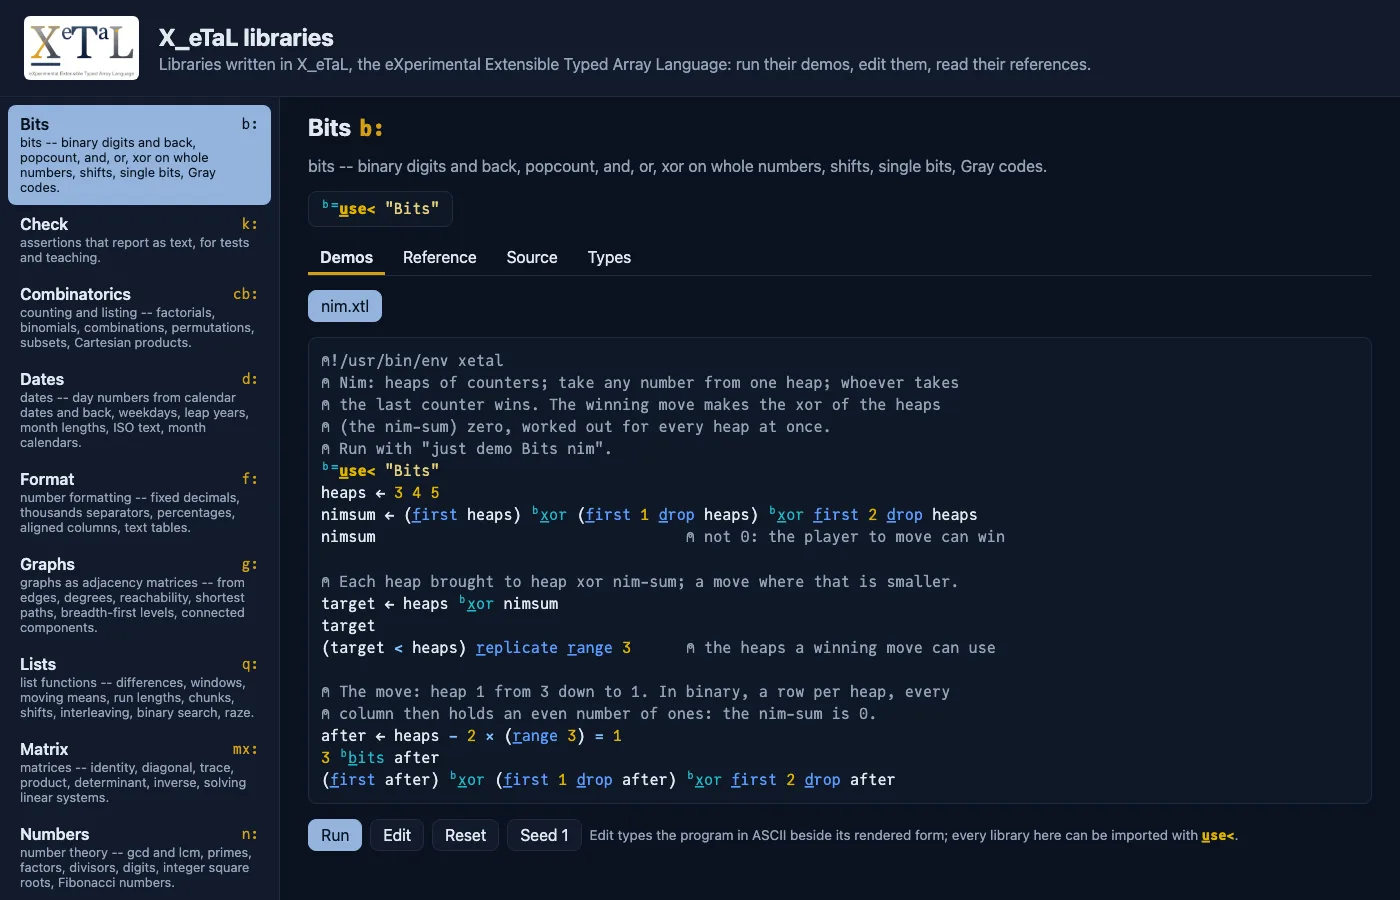
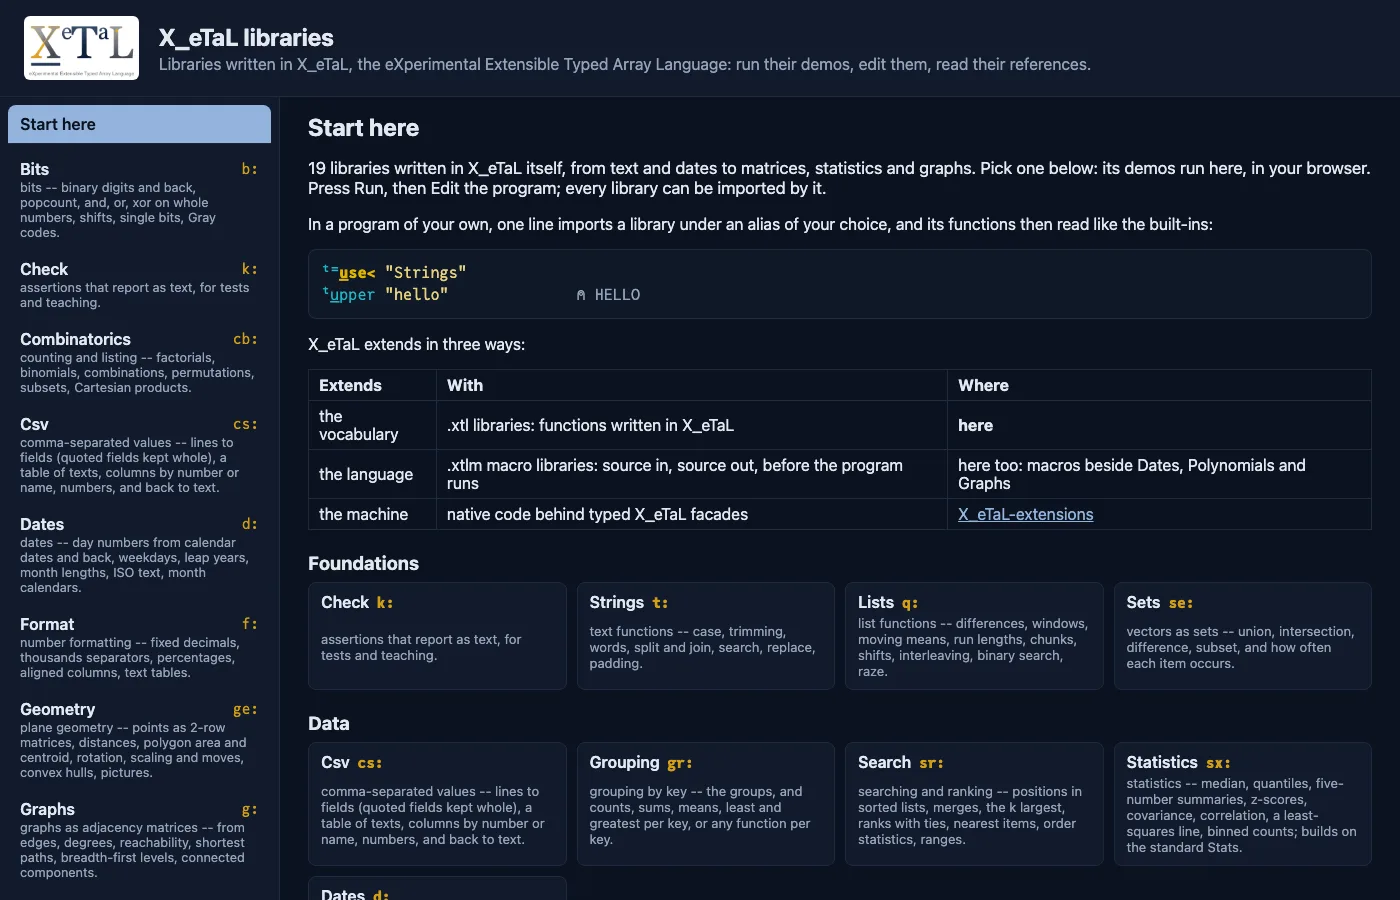
Array Languages #3: 166 functions, the cross-reference site, doc comments, fresh screenshots

Changed region(s): [[0.0, 0.1244, 0.9829, 1.0], [0.7986, 0.6533, 0.9521, 0.7467]]

diff --git a/_drafts/array-languages-xetal-libraries.md b/_drafts/array-languages-xetal-libraries.md
@@ -4,7 +4,7 @@ title: "Array Languages #3: X_eTaL-libraries, Extending the Vocabulary and the L
 categories: [languages, language-design, machine-learning, tools]
 tags: [array-languages, xetal, x-etal, apl, libraries, macros, extensibility, metaprogramming, dyalog, j, bqn]
 keywords: "X_eTaL libraries, array language libraries, u_se macro, xtlm macro libraries, source-to-source macros, user-defined macros, procedural macros, Forth parsing words, APL execute, Dyalog dfns, J addons, BQN bqn-libs, Check library, Strings, Sets, Matrix, Random"
-abstract: "Third in the Array Languages series: X_eTaL-libraries, where the E in the name gets its first two meanings. Nineteen libraries written in X_eTaL are ready, every one with a live, editable demo, and six of them now carry macros: date literals checked at compile time, math notation compiled, a graph whose node names become variables. The macros are source-to-source functions written in X_eTaL, type-checked after expansion, and placed here among Rust, Forth and APL's own execute."
+abstract: "Third in the Array Languages series: X_eTaL-libraries, where the E in the name gets its first two meanings. Nineteen libraries, 166 functions, every one with tests, a live editable demo and a reference page in a cross-reference site searchable by type; six of them carry macros: date literals checked at compile time, math notation compiled, a graph whose node names become variables. The macros are source-to-source functions written in X_eTaL, type-checked after expansion, and placed here among Rust, Forth and APL's own execute."
 series: "Array Languages"
 series_part: 3
 date: 2026-10-09 00:15:00 -0700
@@ -30,6 +30,7 @@ Extensible has three meanings in X_eTaL: libraries extend the vocabulary, macros
 |----------|------|
 | **The repo** | [softwarewrighter/X_eTaL-libraries](https://github.com/softwarewrighter/X_eTaL-libraries) · [the macro design notes](https://github.com/softwarewrighter/X_eTaL-libraries/blob/main/docs/plan.md) |
 | **Live demo** | [softwarewrighter.github.io/X_eTaL-libraries](https://softwarewrighter.github.io/X_eTaL-libraries/) --- every library's demos, editable and runnable |
+| **Reference** | [the cross-reference site](https://softwarewrighter.github.io/X_eTaL-libraries/doc/) --- every library, macro library and demo, searchable by name or by type |
 | **Prior post** | [Array Languages #2: X_eTaL-demos](/2026/10/08/array-languages-xetal-demos/) |
 | **Comments** | [Discord](https://discord.com/invite/Ctzk5uHggZ) |
 
@@ -37,7 +38,7 @@ Extensible has three meanings in X_eTaL: libraries extend the vocabulary, macros
 
 ## Nineteen libraries, live
 
-The standard libraries --- Combinators, Maybe, Stats, Turtle --- are built into the interpreter; this repo holds ordinary X_eTaL files any program imports the same way, with `"t:" u̲se< "Strings"` and then `ᵗu̲pper "hello"`. Nineteen are ready, about 170 functions in all, each with a recommended alias that clashes with nothing else, in four groups:
+The standard libraries --- Combinators, Maybe, Stats, Turtle --- are built into the interpreter; this repo holds ordinary X_eTaL files any program imports the same way, with `"t:" u̲se< "Strings"` and then `ᵗu̲pper "hello"`. Nineteen are ready, 166 functions in all, each with tests, demos and a reference page, and each with a recommended alias that clashes with nothing else, in four groups:
 
 | Group | Libraries |
 |---|---|
@@ -46,11 +47,18 @@ The standard libraries --- Combinators, Maybe, Stats, Turtle --- are built into 
 | Mathematics | Numbers, Combinatorics, Matrix, Polynomials, Geometry, Graphs, Bits, Random |
 | Output | Format, Plot |
 
-Every library has a [live demo](https://softwarewrighter.github.io/X_eTaL-libraries/): its programs editable and runnable in the browser, with the reference, the source and the types one tab away. Many are ports from the libraries of other array languages --- Dyalog's dfns workspace, J's addons, BQN's bqn-libs --- reimplemented from their documented behavior and credited on each library's page. And ordinary libraries are now frozen for the launch: the repo's own note is that nineteen is enough, and the one that matters next is a different kind.
+Every library has a [live demo](https://softwarewrighter.github.io/X_eTaL-libraries/): its programs editable and runnable in the browser, with the reference, the source and the types one tab away. Many are ports from the libraries of other array languages --- Dyalog's dfns workspace, J's addons, BQN's bqn-libs --- reimplemented from their documented behavior and credited on each library's page. Ordinary libraries are frozen for the launch --- the repo's own note is that nineteen is enough --- with one exception made for a sibling: Plot gained line charts with axes, labels and several lines because the machine-learning repo asked for them. Inside each library, helper functions are now private, spelled with the language's new `h:` prefix, so only the documented functions are exported.
+
+The reference is the newest piece. `xetal doc` builds a [cross-reference site](https://softwarewrighter.github.io/X_eTaL-libraries/doc/) from all fifty files --- every library, macro library and demo --- indexed, every call linked to its definition, and searchable by name or by type, so you can look for a function by the shape of what it takes and returns. The first build showed only signatures and source, because the libraries used plain `#` comments, which the tool ignores; within a day every library was rewritten with `##` documentation comments and `###` sections, so the pages now explain what each function does. The next step is planned, not started: worked examples under each comment that `xetal doc --test` runs and checks, the way the language's own standard libraries already do.
 
 <figure>
-<img src="{{ '/assets/images/posts/xetal-libraries-live.webp' | relative_url }}" class="no-invert" alt="The X_eTaL libraries live demo: the libraries down the left, one library's demo open with its program, and Run, Edit, Reset and Seed buttons">
-<figcaption style="font-size: 0.85em;">The libraries' live demo: the Bits library's Nim example, the winning move as the xor of the heaps worked out for every heap at once, runnable and editable in the page.</figcaption>
+<img src="{{ '/assets/images/posts/xetal-libraries-doc.webp' | relative_url }}" class="no-invert" alt="The X_eTaL-libraries cross-reference site: a search box for a name or a type, a list of files, and each library described with its import line">
+<figcaption style="font-size: 0.85em;">The <a href="https://softwarewrighter.github.io/X_eTaL-libraries/doc/">cross-reference site</a>, built by <code>xetal doc</code>: search by a name or a type.</figcaption>
+</figure>
+
+<figure>
+<img src="{{ '/assets/images/posts/xetal-libraries-live.webp' | relative_url }}" class="no-invert" alt="The X_eTaL libraries live demo opening on its Start here page: the libraries down the left, a two-line import example, the three ways X_eTaL extends, and cards for each library by group">
+<figcaption style="font-size: 0.85em;">The libraries' <a href="https://softwarewrighter.github.io/X_eTaL-libraries/">live demo</a> opens on a Start here page: one line imports a library, the three ways X_eTaL extends, and a card per library. Pick one and its demos run, editable, in the page.</figcaption>
 </figure>
 
 The README makes a distinction worth repeating: the *Extensible* in the name has three sides. Libraries extend the vocabulary; macros extend the language; native extensions extend the machine. This post is the first two; a planned post covers the third.
@@ -101,4 +109,4 @@ What is *not* here is as telling. A Control library of `if`, `unless` and `each`
 
 ## Next in the series
 
-Native extensions: Rust behind an X_eTaL facade, and the extension ABI.
+A planned post covers the third meaning of *Extensible*: native extensions, Rust behind an X_eTaL facade, and the extension ABI.
